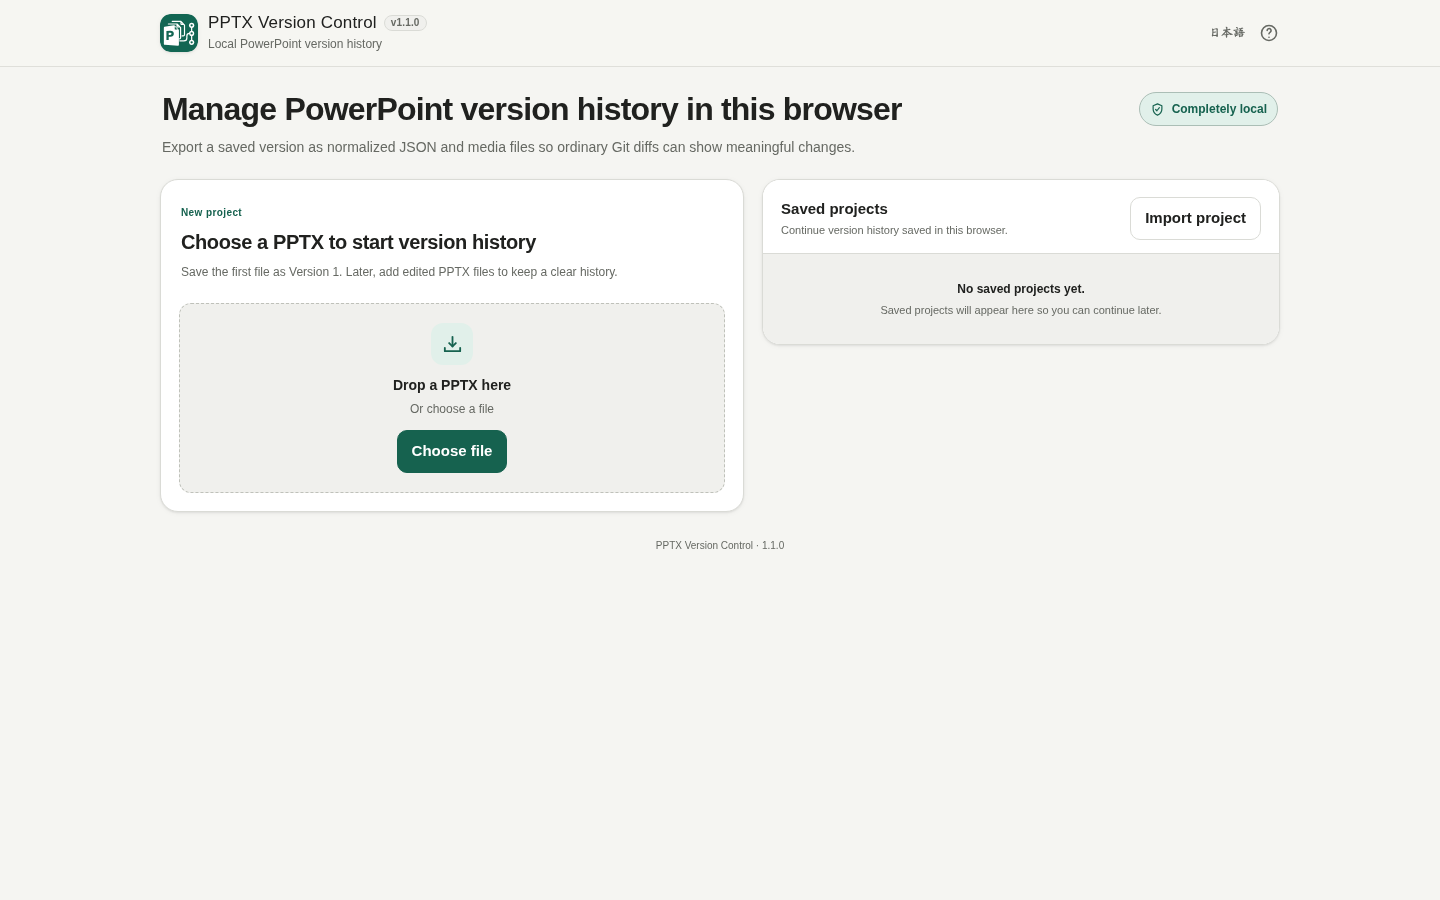
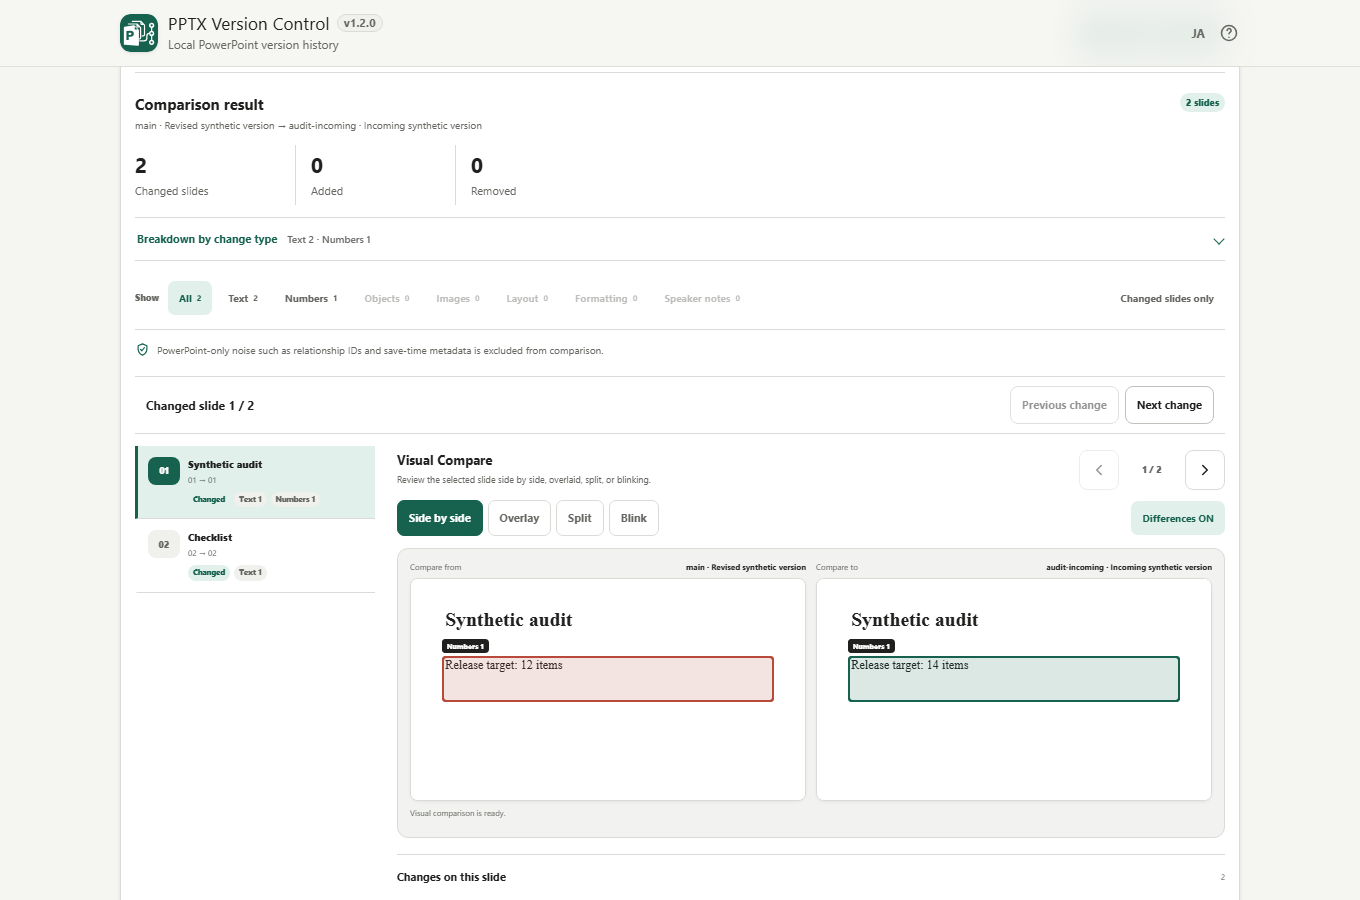
docs/test: refresh live screenshots and validate bilingual release documentation

diff --git a/APP_SPEC.md b/APP_SPEC.md
@@ -6,6 +6,7 @@
 - Provide Previous change / Next change navigation for changed slides that match the current semantic category and Changed slides only filter. Keep the existing normal slide arrows for all visible slides, and display changed-slide progress with disabled endpoints.
 - On phones, reveal the selected workspace tab, indicate left/right overflow only when necessary, and support keyboard Arrow/Home/End switching across the five peer tabs.
 - Keep Japanese and English text, accessible input labels, failure/empty states, file:// support, and no-runtime-network behavior.
+- Keep bilingual README screenshots representative of the actual current UI, and validate documentation links against tracked repository files.
 
 ### Workspace UI refinement
 

diff --git a/README.ja.md b/README.ja.md
@@ -14,7 +14,7 @@ PowerPoint（PPTX）の変更履歴を、内容の意味と実際の見た目の
 
 GitHub Pagesから最初のHTMLを読み込んだ後、PPTX解析、履歴保存、Semantic Diff、Branch / Merge、プロジェクトの入出力、Git向け書き出しは端末内で処理されます。選択したPPTXがアプリからサーバーへ送信されることはありません。
 
-[![PPTX Version Controlの画面](assets/screenshot.png)](https://ttomohisa.github.io/htmlapps-pptx-version-control/)
+[![PPTX Version Controlの比較画面（変更スライドと左右の見た目比較）](assets/screenshot.png)](https://ttomohisa.github.io/htmlapps-pptx-version-control/)
 
 ## 主な機能
 

diff --git a/README.md b/README.md
@@ -14,7 +14,7 @@ A browser-only PowerPoint version-control tool for `.pptx` files. It stores proj
 
 GitHub Pages delivers the initial HTML. After it loads, PPTX parsing, version storage, semantic diff, branch and merge processing, project import/export, and Git-friendly export are processed locally on your device. The PPTX files you select are not uploaded by the app.
 
-[![PPTX Version Control screenshot](assets/screenshot-en.png)](https://ttomohisa.github.io/htmlapps-pptx-version-control/)
+[![PPTX Version Control compare screen showing changed slides and side-by-side rendering](assets/screenshot-en.png)](https://ttomohisa.github.io/htmlapps-pptx-version-control/)
 
 ## Features
 

diff --git a/CHANGELOG.md b/CHANGELOG.md
@@ -3,6 +3,7 @@
 ## 1.2.0 - 2026-11-23
 
 - Add a search for saved version names, original notes and filenames within the active branch; avoid rebuilding comparison pickers for each keystroke.
+- Refresh both README screenshots from actual bilingual Chromium comparison sessions and check documentation links before release.
 - Add Previous change / Next change buttons that jump between changed slides matching current comparison filters.
 - Reveal selected mobile tabs automatically, show scroll-edge hints and support Arrow/Home/End keyboard navigation.
 
